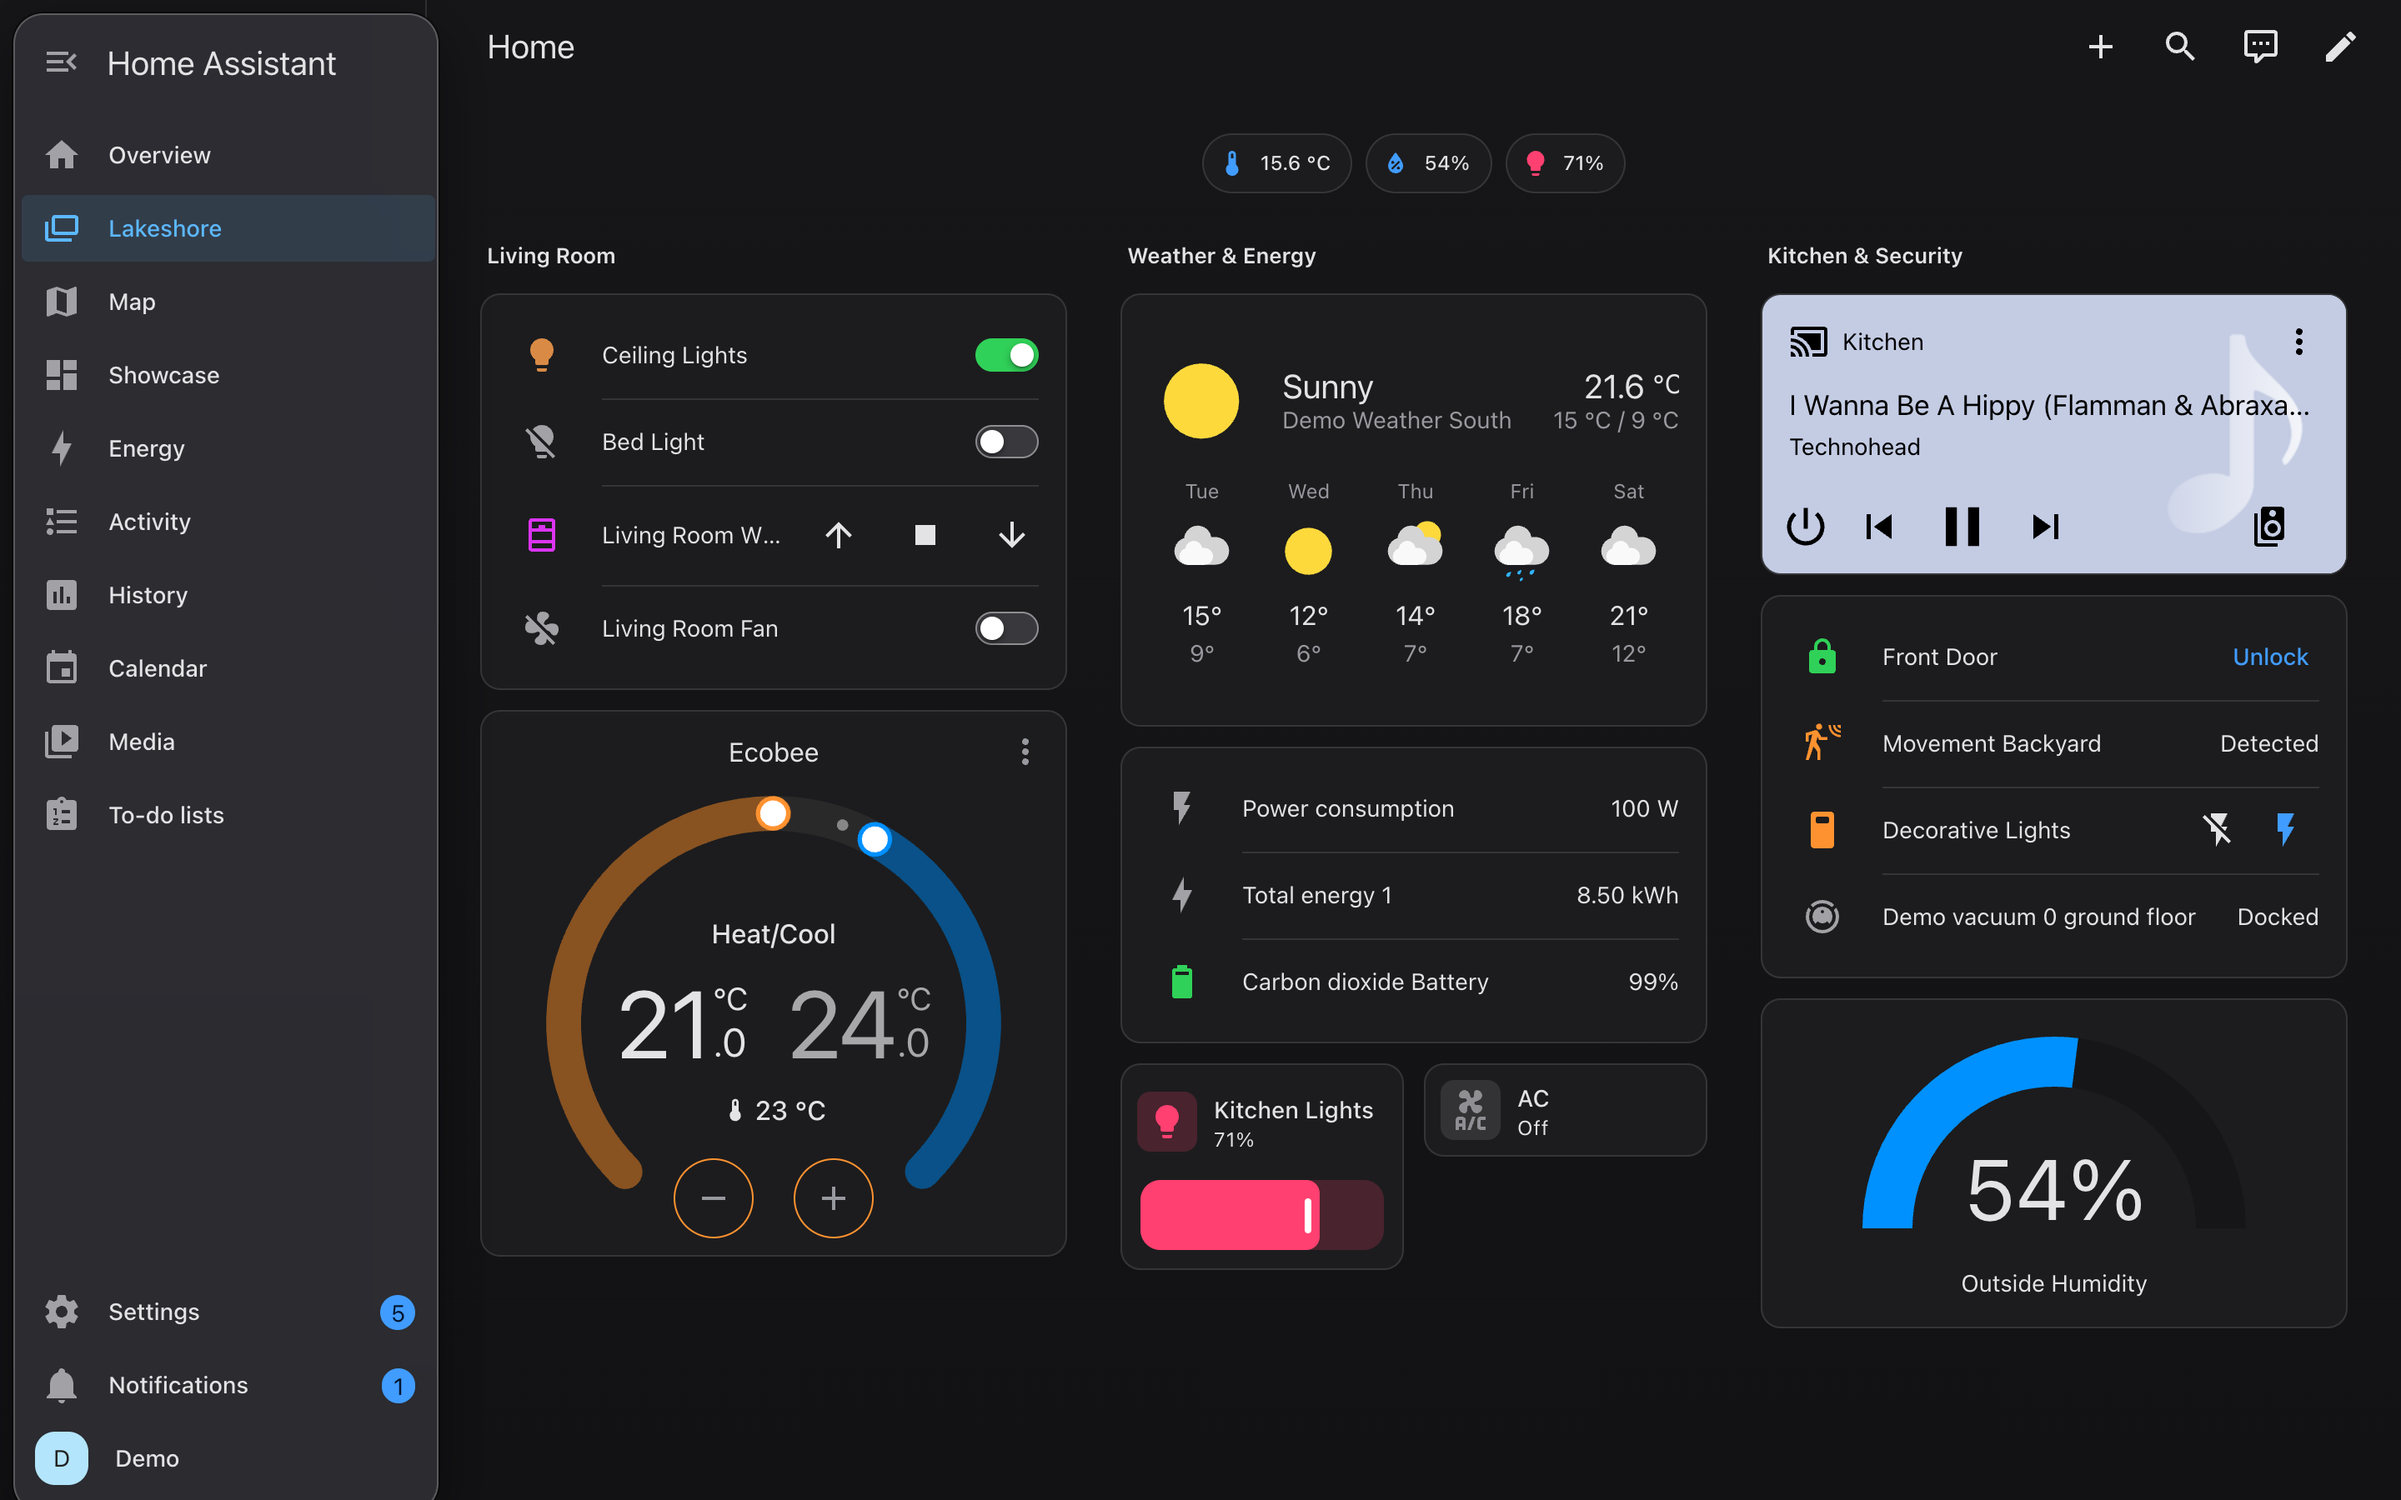
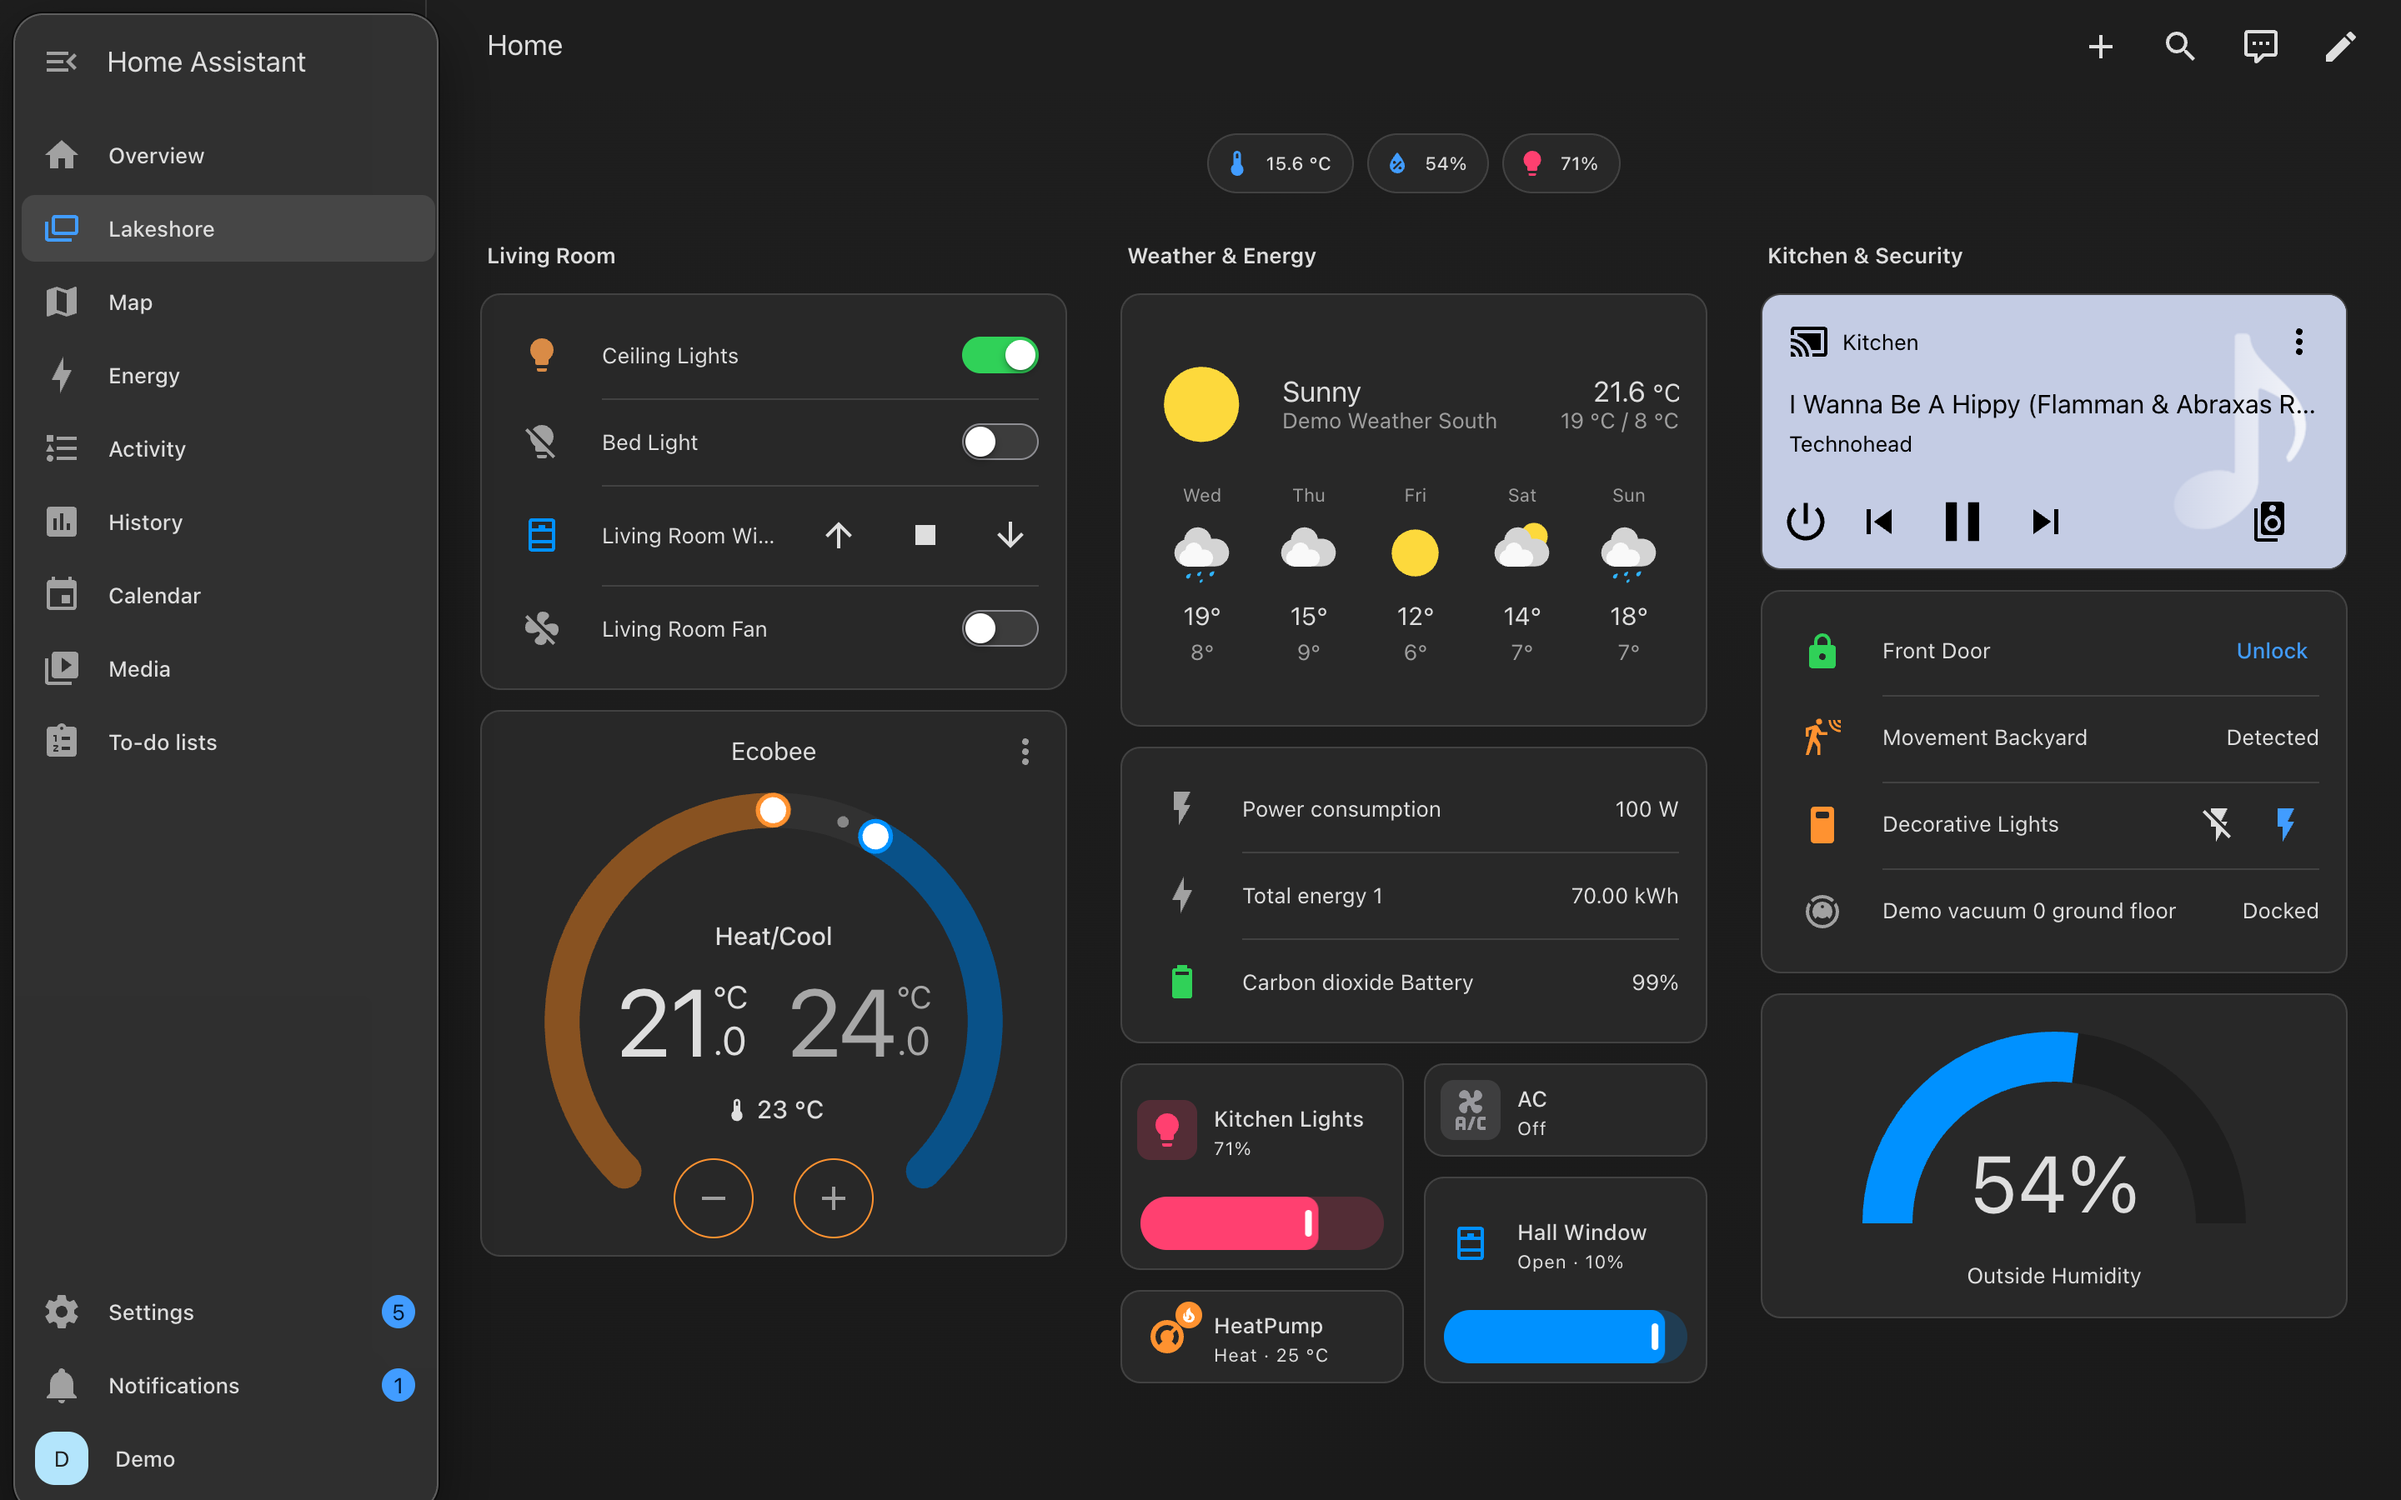
Lakeshore 1.1.0: README, images and changelog

diff --git a/README.md b/README.md
@@ -2,7 +2,7 @@
 
 [![Open your Home Assistant instance and open this repository in the Marketplace.](https://my.home-assistant.io/badges/marketplace_repository.svg)](https://my.home-assistant.io/redirect/marketplace_repository/?owner=wsclx&repository=lakeshore-theme&category=theme)
 
-A theme for Home Assistant inspired by the macOS look: your dashboard reads like the window of a native desktop app. White grouped lists with hairline separators on a calm grey window, a sidebar that floats above the window as a pane of glass, green switches and blue selection. Light and dark mode in one theme.
+A theme for Home Assistant inspired by the macOS look: your dashboard reads like the window of a native desktop app. White grouped lists with hairline separators on a calm grey window, a sidebar that floats above the window as a pane of glass, green switches and the compact type of the desktop. Light and dark mode in one theme.
 
 ![Lakeshore, light mode on desktop](https://raw.githubusercontent.com/wsclx/lakeshore-theme/main/images/dashboard-light-desktop.png)
 
@@ -14,16 +14,17 @@ A theme for Home Assistant inspired by the macOS look: your dashboard reads like
 
 ## What you get
 
-- **One theme, two modes.** Light: white groups on a light grey window. Dark: dark grey groups on an almost black window, with lighter blue for links and selection. It follows the light or dark setting of your profile or device.
+- **One theme, two modes.** Light: white groups on a light grey window. Dark: dark grey groups on a darker window, with lighter blue for links. It follows the light or dark setting of your profile or device.
 - **Two layers.** Content is flat and opaque: cards are grouped lists with a hairline border, a 12 px radius and no shadow. Only the navigation is glass: the sidebar floats above the window with a light rim (card-mod).
-- **System colours.** Blue, green, red, orange and the greys use the published system colour values. Where a default value does not reach the WCAG contrast minimum (4.5:1 for text, 3:1 for controls), the theme uses the platform's own increased-contrast value instead: link blue for text and buttons, darker red and orange for error and warning text, a darker rim around the green switch.
-- **Green switches with a white thumb**, a blue keyboard focus ring and blue selection in the sidebar, all without add-ons.
+- **The desktop's own values.** Window and group greys, separators, label opacities, accent and state colours follow the values of the current desktop release: neutral greys, separators at 10 % (light) and 12 % (dark), labels at 85 %. Where a value does not reach the WCAG contrast minimum (4.5:1 for text, 3:1 for controls), the theme uses the platform's increased-contrast value or a darker step of the same grey: link blue for text, darker secondary text, red and orange for error and warning text, a darker rim around the green switch.
+- **Desktop density.** 13 px body text, 11 px small text and titles at 15, 17, 22 and 26 px, as in the text styles of the desktop.
+- **Desktop controls.** Green switches with a white thumb in desktop proportions (54 × 24 px in settings, 46 × 22 px in entity rows), tile sliders and buttons as capsules, filled buttons in the colour of selected content, a blue keyboard focus ring. States in system colours: covers, valves and media players blue, heating orange, cooling blue.
 - **System font.** The system UI font of your device (`-apple-system`, `system-ui`, Segoe UI, Roboto). Nothing is downloaded.
-- **Optional extras with card-mod:** the floating glass sidebar with rounded selection, hairline separators between the rows of entities cards (inset to where the text starts, as in a grouped list), compact section headings and the system font in the sidebar.
+- **Optional extras with card-mod:** the floating glass sidebar; the selected entry as a neutral grey pill with a blue symbol, as on the desktop; hairline separators between the rows of entities cards (inset to where the text starts, as in a grouped list); tile controls at a compact 32 px; compact section headings and the system font in the sidebar.
 
-Without card-mod the theme still works: groups, colours, switches, selection and focus stay the same; the sidebar is a flat light grey column, rows of entities cards have no separators, and the sidebar keeps the default font.
+Without card-mod the theme still works: groups, colours, type sizes, switches and focus stay the same; the sidebar is a flat light grey column with a blue-tinted selection, rows of entities cards have no separators, tile controls keep their default height, and the sidebar keeps the default font.
 
-![Without card-mod: same groups and switches, flat sidebar, no row separators](https://raw.githubusercontent.com/wsclx/lakeshore-theme/main/images/dashboard-light-desktop-no-cardmod.png)
+![Without card-mod: same groups and switches, flat sidebar with blue selection, no row separators](https://raw.githubusercontent.com/wsclx/lakeshore-theme/main/images/dashboard-light-desktop-no-cardmod.png)
 
 | Settings, light | Settings, dark |
 |---|---|
@@ -32,7 +33,7 @@ Without card-mod the theme still works: groups, colours, switches, selection and
 ## Requirements
 
 - Home Assistant with themes enabled. Tested with Home Assistant 2026.11.2 (November 2026).
-- Optional: [card-mod](https://github.com/thomasloven/lovelace-card-mod) 4.x for the glass sidebar and the row separators. Tested with card-mod 4.2.1.
+- Optional: [card-mod](https://github.com/thomasloven/lovelace-card-mod) 4.x for the glass sidebar, the grey selection, the row separators and the compact tile controls. Tested with card-mod 4.2.1.
 
 ## Installation
 
@@ -85,7 +86,10 @@ Change the variables below in a copy of the theme, or override them with card-mo
 | `lake-hairline` | Card borders, dividers and row separators |
 | `lake-glass`, `lake-glass-rim`, `lake-glass-filter` | Glass sidebar: tint, rim and blur (card-mod) |
 | `lake-switch-on`, `lake-switch-on-rim`, `lake-switch-off` | Switch track colours |
-| `primary-color`, `sidebar-selected-icon-color` | Blue for links, buttons and the selected sidebar entry |
+| `ha-switch-width`, `ha-entity-toggle-switch-width` (and `-size`, `-thumb-size`) | Switch sizes in settings and in entity rows |
+| `ha-font-size-s`, `-m`, `-l`, `-xl`, `-2xl`, `-3xl` | Type scale (set them back to 12, 14, 16, 20, 24, 28 px for the Home Assistant sizes) |
+| `lake-selection`, `lake-selection-symbol` | Selected sidebar entry: pill and symbol colour (card-mod) |
+| `primary-color`, `sidebar-selected-icon-color` | Blue for links and the selected sidebar entry without card-mod |
 | `entities-card-row-gap` | Space between rows of entities cards (the separator sits in the middle) |
 
 ## Known limits
@@ -96,7 +100,9 @@ Change the variables below in a copy of the theme, or override them with card-mo
 - A thin divider line remains at the right edge of the sidebar area (it belongs to the app drawer, which neither a theme variable nor card-mod reaches without also changing every other divider).
 - Without card-mod the sidebar keeps the default font of the frontend, and entities cards have no row separators.
 - Light and media colours that a card takes from the device (a light's RGB colour, album art) stay as they are.
-- The thermostat ring, the weather icons and the size of switches are drawn by the frontend; the theme only sets their colours.
+- The thermostat ring and the weather icons are drawn by the frontend; the theme only sets their colours. Sliders of lights take the light's own colour.
+- The height of tile controls is fixed by the tile card; only card-mod can change it.
+- The type is a little smaller than the Home Assistant default (13 instead of 14 px body). If you prefer the larger size, override `ha-font-size-*` in a copy of the theme.
 - The system font depends on your device: the system font on Apple devices, Segoe UI on Windows, Roboto on Android, otherwise the default sans-serif.
 - The card-mod rules target internal elements of the frontend. A frontend update can break them; the theme itself keeps working.
 

diff --git a/CHANGELOG.md b/CHANGELOG.md
@@ -5,6 +5,8 @@ The format follows [Keep a Changelog](https://keepachangelog.com/en/1.1.0/), ver
 
 ## [Unreleased]
 
+## [1.1.0] - 2026-11-25
+
 ### Changed
 - Window, groups, separators and labels now use the greys and opacities measured on the current desktop release (neutral greys instead of the bluish phone greys): light window #f6f6f6 with white groups, dark window #1e1e1e with #282828 groups, separators black 10 % / white 12 %, labels 85 %.
 - Desktop density: 13 px body text, 11 px small text, titles at 15 / 17 / 22 / 26 px.
